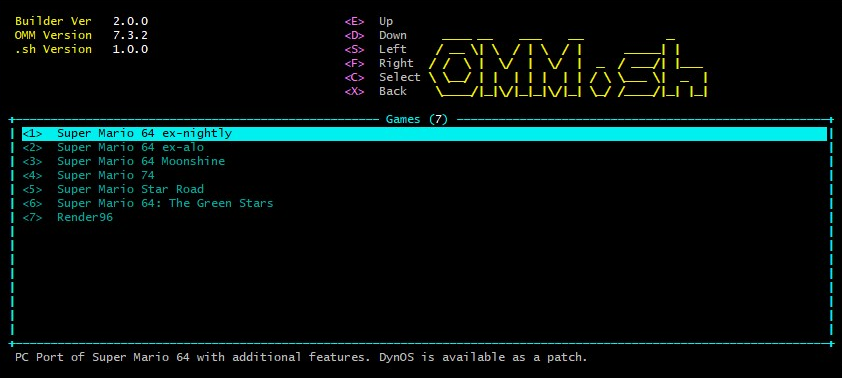
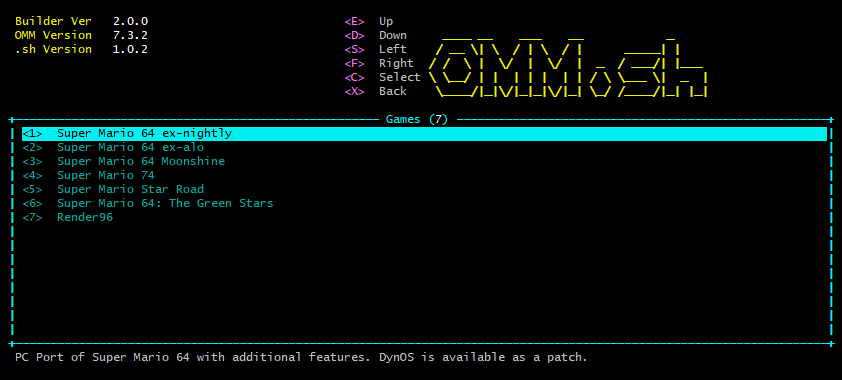
1.0.2

diff --git a/README.md b/README.md
@@ -5,6 +5,8 @@ For me, I don't know Python. In fact, if I didnt know the file extension of omm_
 
 ## Devlog
 Format: MM.DD.YY - VERSION
+### 10.18.22 - 1.0.2
+  - Improved building. Still can't install below stuff.
 ### 10.17.22 - 1.0.1
   - It can build and run repos. Cannot install custom textures, models, sounds, and custom patches.
 ### 10.13.22 - 1.0.0
